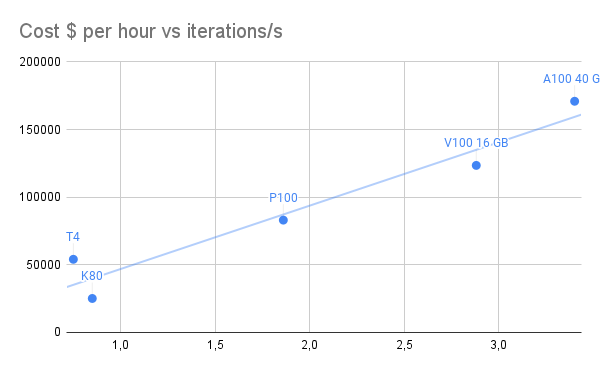
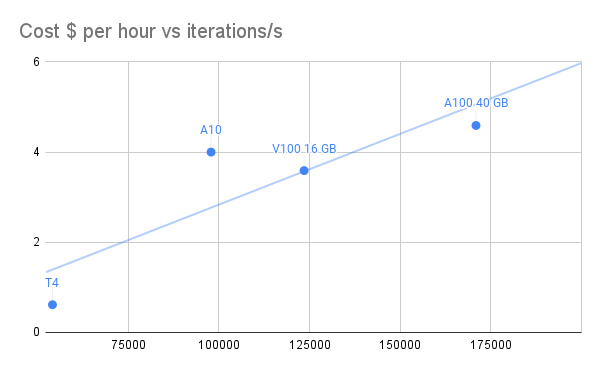
update graph; extend text

diff --git a/05-cudf-cost.md b/05-cudf-cost.md
@@ -1,22 +1,36 @@
-# cuDF Cost
+# Best VM for Dataframe operations
 
-Which VM is most cost-effective for cuDF?
+There many options for running ETL code with GPU acceleration, for example:
+- [Spark-Rapids](https://nvidia.github.io/spark-rapids/)
+- [Dask](https://docs.dask.org/en/stable/)
+- [cudf.Pandas](https://rapids.ai/cudf-pandas/)
+
+If you're considering adopting one of these frameworks, one of the first questions you'll encounter is: which VM is the most cost-effective for my workload?
+
+## Performance versus Cost
 
 Among the CompuBench tests, the "N-Body simulation" benchmarks are likely the most relevant for predicting cuDF performance. These tests involve complex calculations and data manipulations similar to operations performed in cuDF, which is designed for data frame manipulation and analysis. 
 
 
 ![](./img/gpu-cost-vs-performance-nbody.png)
 
-| GPU        | AWS $ per hour | Azure $ per hour | Google Cloud | Min   | N-Body simulation – 128k - iterations/s | iterations/h | $/billion iterations |
-|------------|----------------|------------------|--------------|-------|-----------------------------------------|--------------|----------------------|
-| K80        |                |              0,9 |         0,85 |  0,85 |                                   25121 |     90435600 |          9,398953509 |
-| T4         |            1,2 |              1,2 |         0,75 |  0,75 |                                   54082 |    194695200 |          3,852175092 |
-| P100       |                |             2,07 |         1,86 |  1,86 |                                   83053 |    298990800 |          6,220927199 |
-| V100 16 GB |           3,06 |             3,06 |         2,88 |  2,88 |                                  123497 |    444589200 |          6,477890151 |
-| A100 40 GB |          4,100 |            3,400 |         3,67 | 3,400 |                                  170915 |    615294000 |          5,525813676 |
+| GPU        | SKU                 | Instance        | Azure $ per hour pay-as-you-go UK South | N-Body simulation – 128k - iterations/s | iterations/h | $/billion iterations | $/billion iterations |
+|------------|---------------------|-----------------|-----------------------------------------|-----------------------------------------|--------------|----------------------|----------------------|
+| T4         | NCas_T4_v3-series   | NC4as T4 v3     |                                   0,615 |                                   54082 |    194695200 |          3,158783576 |          3,158783576 |
+| V100 16 GB | NCv3-series         | NC6s v3         |                                   3,589 |                                  123497 |    444589200 |          8,072620747 |          8,072620747 |
+| A100 40 GB | NC A100 v4 series   | NC24ads A100 v4 |                                   4,590 |                                  170915 |    615294000 |          7,459848463 |          7,459848463 |
+| A10        | NVads A10 v5 series | NV36ads A10 v5  |                                       4 |                                   97834 |    352202400 |          11,35710603 |          11,35710603 |
 
+The T4 and A100 VMs are likely the most cost-effective for our application. 
+Yifeng Jiang compared [Spark versus Spark-rapids](https://uprush.medium.com/accelerating-apache-spark-with-rapids-on-gpu-27b2b8a77344) on A10 machines. In terms of pricing, those are not competitive.
+
+What is the score to beat? 
+We can look at the closest non-GPU backed VM with 4	vCPUs, 28 GiB memory and 180 SSD GB storage, eg. [Standard_D12_v2](https://learn.microsoft.com/nl-nl/azure/virtual-machines/dv2-dsv2-series-memory) with 4 vCPUs, 28 GiB memory and 200 SSD GB storage at $0.4690/hour. 
+
+## Scaling Unit
+
+For all but the largest workloads, we want to make sure our cloud infrastructure matches our compute workload as it varies throughout the day. Having a smaller scaling unit reduces our chances of being overprovisioned often.
 
 ## Sources
 
-1. Pricing data from [paperspace](https://www.paperspace.com/gpu-cloud-comparison)
 1. Benchmarks from [Compubench](https://compubench.com)
